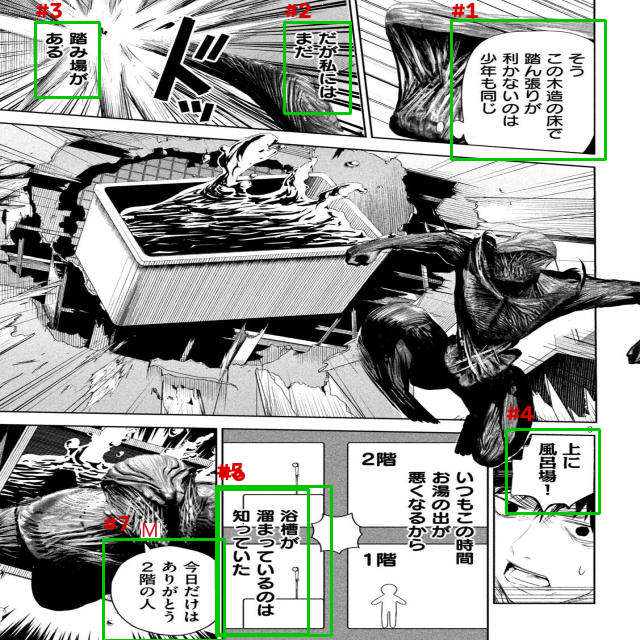
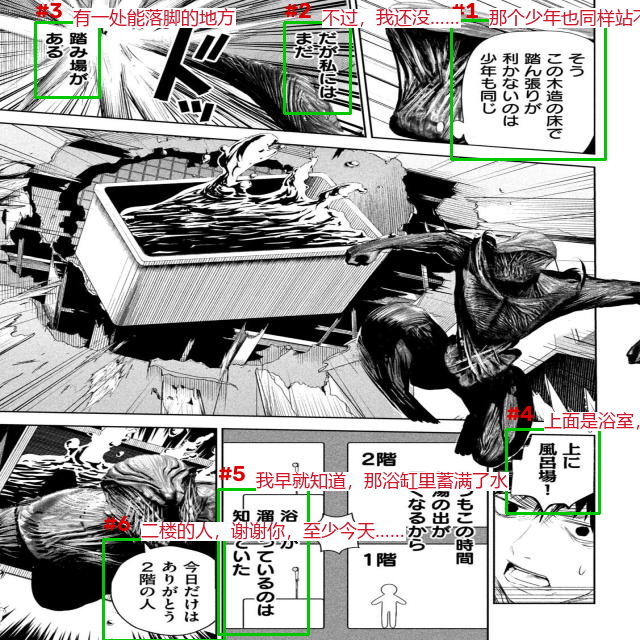
feat: update text return

diff --git a/manga_translator/manga_translator.py b/manga_translator/manga_translator.py
@@ -4468,8 +4468,7 @@ class MangaTranslator:
     async def _run_cds540_staged_pipeline(self, image: Image.Image, config: Config) -> Context:
         """
         CDS540 课程设计专用三阶段流水线：
-        Stage 1 (Detection) -> Stage 2 (Crop + Preprocess + OCR) -> Stage 3 (Reading Order + JSON + Vis)
-        彻底屏蔽 Inpainting 与 Translation，并将各阶段结果分别保存至 output/stages/
+        Stage 1 (Detection) -> Stage 2 (Crop + Preprocess + OCR) -> Stage 3 (Reading Order + Translation + JSON + Vis)
         """
         from .ocr.preprocess import preprocess_bubble, build_stage2_comparison_grid
         from .utils.bubble_organizer import (
@@ -4484,6 +4483,8 @@ class MangaTranslator:
         ctx.input = image
         ctx.img_rgb, ctx.img_alpha = load_image(image)
         ctx.bubble_mask = None
+        ctx.from_lang = "auto"
+        ctx.config = config
         img_h, img_w = ctx.img_rgb.shape[:2]
 
         # 读取实验模式参数（默认 proposed，可在环境变量 CDS540_MODE 切换 baseline / proposed_no_prep）
@@ -4511,15 +4512,34 @@ class MangaTranslator:
             merged_text = " ".join([tl.text for tl in ocr_res if getattr(tl, "text", "").strip()])
             raw_bubbles.append({"bbox": [0, 0, img_w, img_h], "text": merged_text, "conf": 1.0})
         else:
-            # ================= STAGE 1: 气泡检测 =================
+            # ================= STAGE 1: 气泡检测（含重叠框去重） =================
             await self._report_progress("detection")
             det_textlines, ctx.mask_raw, ctx.mask = await self._run_detection(config, ctx)
-            stage1_boxes = []
+            raw_boxes = []
             for tl in det_textlines or []:
                 pts = np.asarray(tl.pts)
                 x1, y1 = int(pts[:, 0].min()), int(pts[:, 1].min())
                 x2, y2 = int(pts[:, 0].max()), int(pts[:, 1].max())
-                stage1_boxes.append({"bbox": [x1, y1, x2, y2], "conf": float(getattr(tl, "prob", 0.0))})
+                raw_boxes.append({"bbox": [x1, y1, x2, y2], "conf": float(getattr(tl, "prob", 0.0))})
+
+            # 过滤高度重叠的重复框（解决 #5 与 #6 重叠问题）
+            raw_boxes.sort(key=lambda b: b["conf"], reverse=True)
+            stage1_boxes = []
+            for box in raw_boxes:
+                bx1, by1, bx2, by2 = box["bbox"]
+                b_area = max(1, (bx2 - bx1) * (by2 - by1))
+                is_dup = False
+                for kept in stage1_boxes:
+                    kx1, ky1, kx2, ky2 = kept["bbox"]
+                    ix1, iy1 = max(bx1, kx1), max(by1, ky1)
+                    ix2, iy2 = min(bx2, kx2), min(by2, ky2)
+                    inter = max(0, ix2 - ix1) * max(0, iy2 - iy1)
+                    k_area = max(1, (kx2 - kx1) * (ky2 - ky1))
+                    if inter / min(b_area, k_area) > 0.65:
+                        is_dup = True
+                        break
+                if not is_dup:
+                    stage1_boxes.append(box)
 
             # 保存 Stage 1 检测可视化图
             stage1_vis = render_stage1_detection_image(ctx.img_rgb, stage1_boxes)
@@ -4529,7 +4549,7 @@ class MangaTranslator:
                 logger,
             )
 
-            # ================= STAGE 2: 裁剪 + 图像预处理 + 单框 OCR =================
+            # ================= STAGE 2: 裁剪 + 图像预处理 + 切片内文本行 OCR =================
             await self._report_progress("ocr")
             crop_pairs = []
             for idx, box_info in enumerate(stage1_boxes):
@@ -4538,20 +4558,38 @@ class MangaTranslator:
                 if raw_crop.size == 0:
                     continue
 
-                proc_crop = preprocess_bubble(raw_crop, enable=enable_preprocess, target_height=96)
+                proc_crop = preprocess_bubble(raw_crop, enable=enable_preprocess, target_height=160)
                 crop_pairs.append((raw_crop, proc_crop))
 
-                # 在预处理后的独立切片上运行原版 OCR 引擎
+                # 在增强后的独立切片内部定位单行文字（解决多列竖排气泡直接送入48px OCR被压扁识别为空的问题）
                 ch, cw = proc_crop.shape[:2]
-                crop_quad = Quadrilateral(
-                    np.array([[0, 0], [cw, 0], [cw, ch], [0, ch]], dtype=np.int32),
-                    "",
-                    box_info["conf"],
+                sub_lines, _, _ = await dispatch_detection(
+                    "default",
+                    proc_crop,
+                    max(256, max(ch, cw)),
+                    config.detector.text_threshold,
+                    config.detector.box_threshold,
+                    config.detector.unclip_ratio,
+                    self.device,
+                    False,
                 )
+                if not sub_lines:
+                    # 若切片内仅单行未触发子检测，自动按竖列或全框构造单行框
+                    sub_lines = [
+                        Quadrilateral(
+                            np.array([[0, 0], [cw, 0], [cw, ch], [0, ch]], dtype=np.int32),
+                            "",
+                            box_info["conf"],
+                        )
+                    ]
+                else:
+                    # 日漫切片内多列文本按从右到左排序后再拼接
+                    sub_lines.sort(key=lambda q: -float(np.mean(np.asarray(q.pts)[:, 0])))
+
                 ocr_results = await dispatch_ocr(
                     config.ocr.ocr,
                     proc_crop,
-                    [crop_quad],
+                    sub_lines,
                     config.ocr,
                     self.device,
                     False,
@@ -4564,18 +4602,30 @@ class MangaTranslator:
                     "conf": box_info["conf"],
                 })
 
-            # 保存 Stage 2 预处理前后切片对比图
-            stage2_grid = build_stage2_comparison_grid(crop_pairs)
-            imwrite_unicode(
-                os.path.join(stage_dir, "stage2_preprocess_compare.png"),
-                cv2.cvtColor(stage2_grid, cv2.COLOR_RGB2BGR),
-                logger,
-            )
+        # ================= STAGE 3: 阅读顺序组织 + 批量翻译 + JSON + 最终可视化 =================
+        ordered_bubbles = sort_reading_order(raw_bubbles, direction=direction, img_h=img_h)
 
-        # ================= STAGE 3: 阅读顺序组织 + JSON + 最终可视化 =================
-        ordered_bubbles = sort_reading_order(raw_bubbles, direction=direction)
+        # 调用当前配置好的翻译器（如 DeepSeek / OpenAI / Gemini）批量翻译
+        if ordered_bubbles and config.translator.translator != Translator.none:
+            await self._report_progress("translating")
+            try:
+                non_empty_indices = [i for i, b in enumerate(ordered_bubbles) if (b.get("text") or "").strip()]
+                if non_empty_indices:
+                    src_texts = [ordered_bubbles[i]["text"] for i in non_empty_indices]
+                    translated_texts = await self._batch_translate_texts(src_texts, config, ctx)
+                    for idx_b, trans in zip(non_empty_indices, translated_texts):
+                        ordered_bubbles[idx_b]["translation"] = trans
+            except Exception as trans_err:
+                logger.warning(f"[CDS540 Stage3] 批量翻译异常，回退保留原文输出: {trans_err}")
+
         json_out_path = os.path.join(stage_dir, "stage3_result.json")
-        vis_rgb = save_and_visualize_stage3(ctx.img_rgb, ordered_bubbles, json_out_path, mode_name=pipeline_mode)
+        vis_rgb = save_and_visualize_stage3(
+            ctx.img_rgb,
+            ordered_bubbles,
+            json_path=json_out_path,
+            mode_name=pipeline_mode,
+            show_translation=True,
+        )
 
         imwrite_unicode(
             os.path.join(stage_dir, "stage3_final_ordered.png"),
@@ -4589,7 +4639,7 @@ class MangaTranslator:
             f"time={elapsed_ms:.1f}ms, saved to {stage_dir}"
         )
 
-        # 将 Stage 3 可视化结果直接赋给 ctx.result 返回给前端 UI 显示，跳过擦除与翻译
+        # 将 Stage 3 可视化结果直接赋给 ctx.result 返回给前端 UI 显示
         ctx.result = Image.fromarray(vis_rgb)
         ctx.text_regions = []
         ctx.cds540_complete = True

diff --git a/manga_translator/utils/bubble_organizer.py b/manga_translator/utils/bubble_organizer.py
@@ -10,6 +10,8 @@ def _load_cjk_font(size: int = 18):
         "C:/Windows/Fonts/msyh.ttc",
         "C:/Windows/Fonts/msgothic.ttc",
         "C:/Windows/Fonts/simhei.ttf",
+        "/System/Library/Fonts/PingFang.ttc",
+        "/usr/share/fonts/opentype/noto/NotoSansCJK-Regular.ttc",
     ]
     for fp in font_candidates:
         if os.path.exists(fp):
@@ -20,13 +22,15 @@ def _load_cjk_font(size: int = 18):
     return ImageFont.load_default()
 
 
-def sort_reading_order(bubbles: list, direction: str = "rtl", row_tolerance: int = 60) -> list:
+def sort_reading_order(bubbles: list, direction: str = "rtl", row_tolerance: int = 60, img_h: int = None) -> list:
     """
     Stage 3: 按阅读方向排序气泡
     bubbles: [{"bbox": [x1, y1, x2, y2], "text": "...", "conf": 0.9}, ...]
     """
     if not bubbles:
         return []
+
+    tol = max(30, int(img_h * 0.04)) if img_h else row_tolerance
 
     for b in bubbles:
         x1, y1, x2, y2 = b["bbox"]
@@ -39,7 +43,7 @@ def sort_reading_order(bubbles: list, direction: str = "rtl", row_tolerance: int
     current_row = [bubbles[0]]
 
     for b in bubbles[1:]:
-        if abs(b["cy"] - current_row[-1]["cy"]) <= row_tolerance:
+        if abs(b["cy"] - current_row[0]["cy"]) <= tol:
             current_row.append(b)
         else:
             rows.append(current_row)
@@ -51,12 +55,15 @@ def sort_reading_order(bubbles: list, direction: str = "rtl", row_tolerance: int
     for row in rows:
         row.sort(key=lambda item: -item["cx"] if direction == "rtl" else item["cx"])
         for b in row:
-            ordered.append({
+            item_dict = {
                 "reading_order": order_idx,
                 "bbox": b["bbox"],
                 "confidence": round(float(b.get("conf", 1.0)), 4),
-                "text": b["text"]
-            })
+                "text": b["text"],
+            }
+            if "translation" in b:
+                item_dict["translation"] = b["translation"]
+            ordered.append(item_dict)
             order_idx += 1
     return ordered
 
@@ -85,8 +92,9 @@ def save_and_visualize_stage3(
     ordered_bubbles: list,
     json_path: str,
     mode_name: str = "proposed",
+    show_translation: bool = True,
 ) -> np.ndarray:
-    """导出结构化 JSON 并在原图绘制阅读顺序编号与识别文本"""
+    """导出结构化 JSON（含原文与译文）并在原图绘制阅读顺序编号与文本"""
     os.makedirs(os.path.dirname(json_path), exist_ok=True)
     with open(json_path, "w", encoding="utf-8") as f:
         json.dump(
@@ -120,9 +128,11 @@ def save_and_visualize_stage3(
 
     for item in ordered_bubbles:
         x1, y1, x2, y2 = item["bbox"]
-        text_preview = (item["text"] or "").replace("\n", " ")[:18]
+        # 优先显示翻译结果；若未翻译或关闭显示则显示 OCR 原文
+        raw_display = item.get("translation") if (show_translation and item.get("translation")) else item.get("text", "")
+        text_preview = (raw_display or "").replace("\n", " ")[:22]
         tx, ty = x1 + 38, max(y1 - 22, 4)
-        # 白色半透明底框让红字在黑白网点上更清晰
+
         bbox_txt = draw.textbbox((tx, ty), text_preview, font=font)
         draw.rectangle(bbox_txt, fill=(255, 255, 255))
         draw.text((tx, ty), text_preview, fill=(210, 20, 40), font=font)
